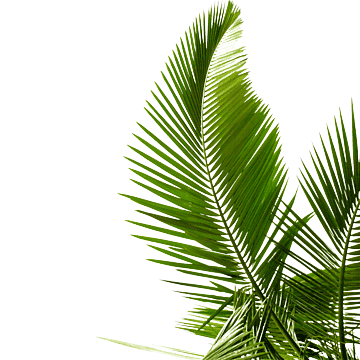
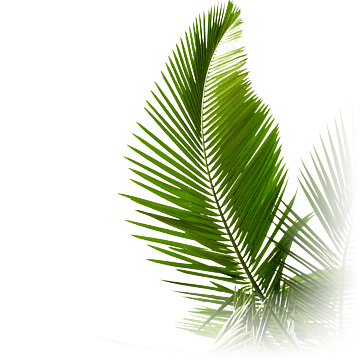
Photography-Studio hero: soften cropped fern edges, ground shadow, shorter phone block so both buttons show
Claude-Session: https://claude.ai/code/session_01CaLMjKQHmJwSpAYtuSNDcm

Changed region(s): [[0.3056, 0.275, 1.0, 1.0], [0.275, 0.9167, 0.3056, 0.9472]]

diff --git a/Portfolio-astro/public/Photography-Studio/css/style.css b/Portfolio-astro/public/Photography-Studio/css/style.css
@@ -161,6 +161,8 @@ fx-hero { display: contents; }
 }
 .hero-art { position: absolute; inset: 0; pointer-events: none; }
 .hero-art img { position: absolute; }
+.hero-art::after { content: ""; position: absolute; left: 0; right: 0; bottom: -8%; height: 30%; background: radial-gradient(ellipse 55% 50% at 62% 40%, rgba(10, 8, 10, 0.6), rgba(10, 8, 10, 0) 70%); z-index: 1; }
+.leaf { z-index: 0; }
 .fox { right: 4%; bottom: 0; height: 78%; width: auto; max-width: 52%; z-index: 2; object-fit: contain; object-position: bottom right; }
 .leaf-a { left: auto; right: 38%; bottom: 0; width: 26%; transform-origin: bottom center; }
 .leaf-b { right: -3%; bottom: 0; width: 24%; transform-origin: bottom center; }
@@ -170,13 +172,18 @@ fx-hero { display: contents; }
 
 @media (max-width: 860px) {
   /* On phones the fox and ferns get their own block above the headline,
-     so they can never collide with the text, whatever the screen height. */
+     so they can never collide with the text, whatever the screen height.
+     The block is kept short so both buttons show on the first screen. */
   .hero { flex-direction: column; justify-content: flex-end; }
-  .hero-art { position: relative; inset: auto; flex: none; width: 100%; height: clamp(15rem, 38svh, 22rem); margin-top: 4.5rem; }
-  .fox { top: auto; bottom: 0; right: 3%; height: 100%; width: auto; max-width: none; object-position: bottom right; }
-  .leaf-a { right: 52%; bottom: 0; width: 30%; }
-  .leaf-b { right: -4%; bottom: 0; width: 26%; }
-  .hero-copy { padding-top: 1.25rem; }
+  .hero-art { position: relative; inset: auto; flex: none; width: 100%; height: clamp(12rem, 31svh, 19rem); margin-top: 4rem; }
+  .fox { top: auto; bottom: 0; right: 5%; height: 100%; width: auto; max-width: none; object-position: bottom right; }
+  .leaf-a { right: 56%; bottom: 0; width: 30%; }
+  .leaf-b { right: -2%; bottom: 0; width: 24%; z-index: 0; }
+  .hero-copy { padding: 1rem var(--gutter) 1.75rem; }
+  .hero-copy h1 { font-size: clamp(2rem, 1rem + 5.4vw, 2.6rem); }
+  .hero-copy p { margin: 1rem 0 1.4rem; font-size: var(--t-md); line-height: 1.55; }
+  .hero-actions { flex-wrap: nowrap; gap: 0.6rem; }
+  .hero-actions .btn { flex: 1 1 0; padding: 0.9rem 0.5rem; text-align: center; font-size: 0.9rem; }
   .hero-bg::after { background: linear-gradient(to top, var(--bg) 6%, rgba(20, 17, 20, 0.6) 58%, rgba(20, 17, 20, 0.3)); }
   .wordmark-tag { display: none; }
 }
